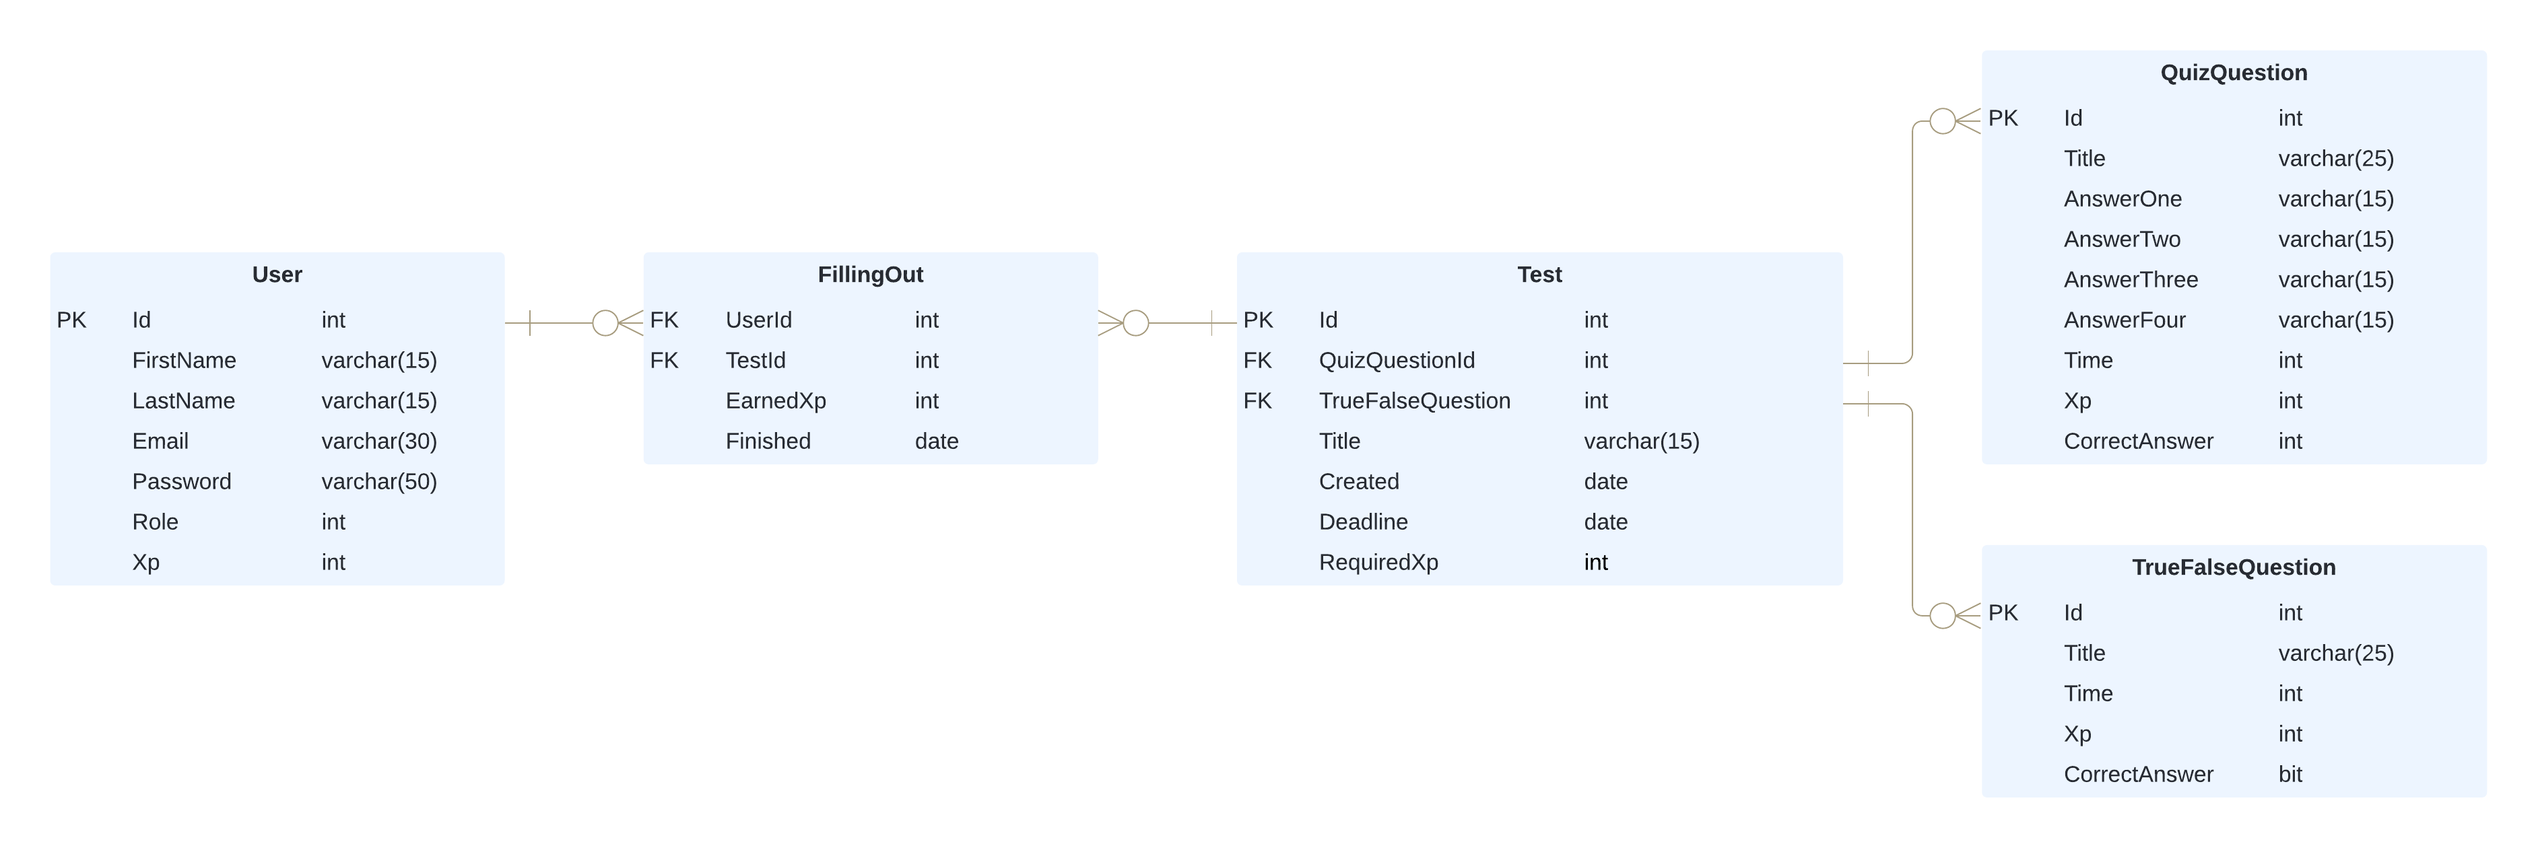
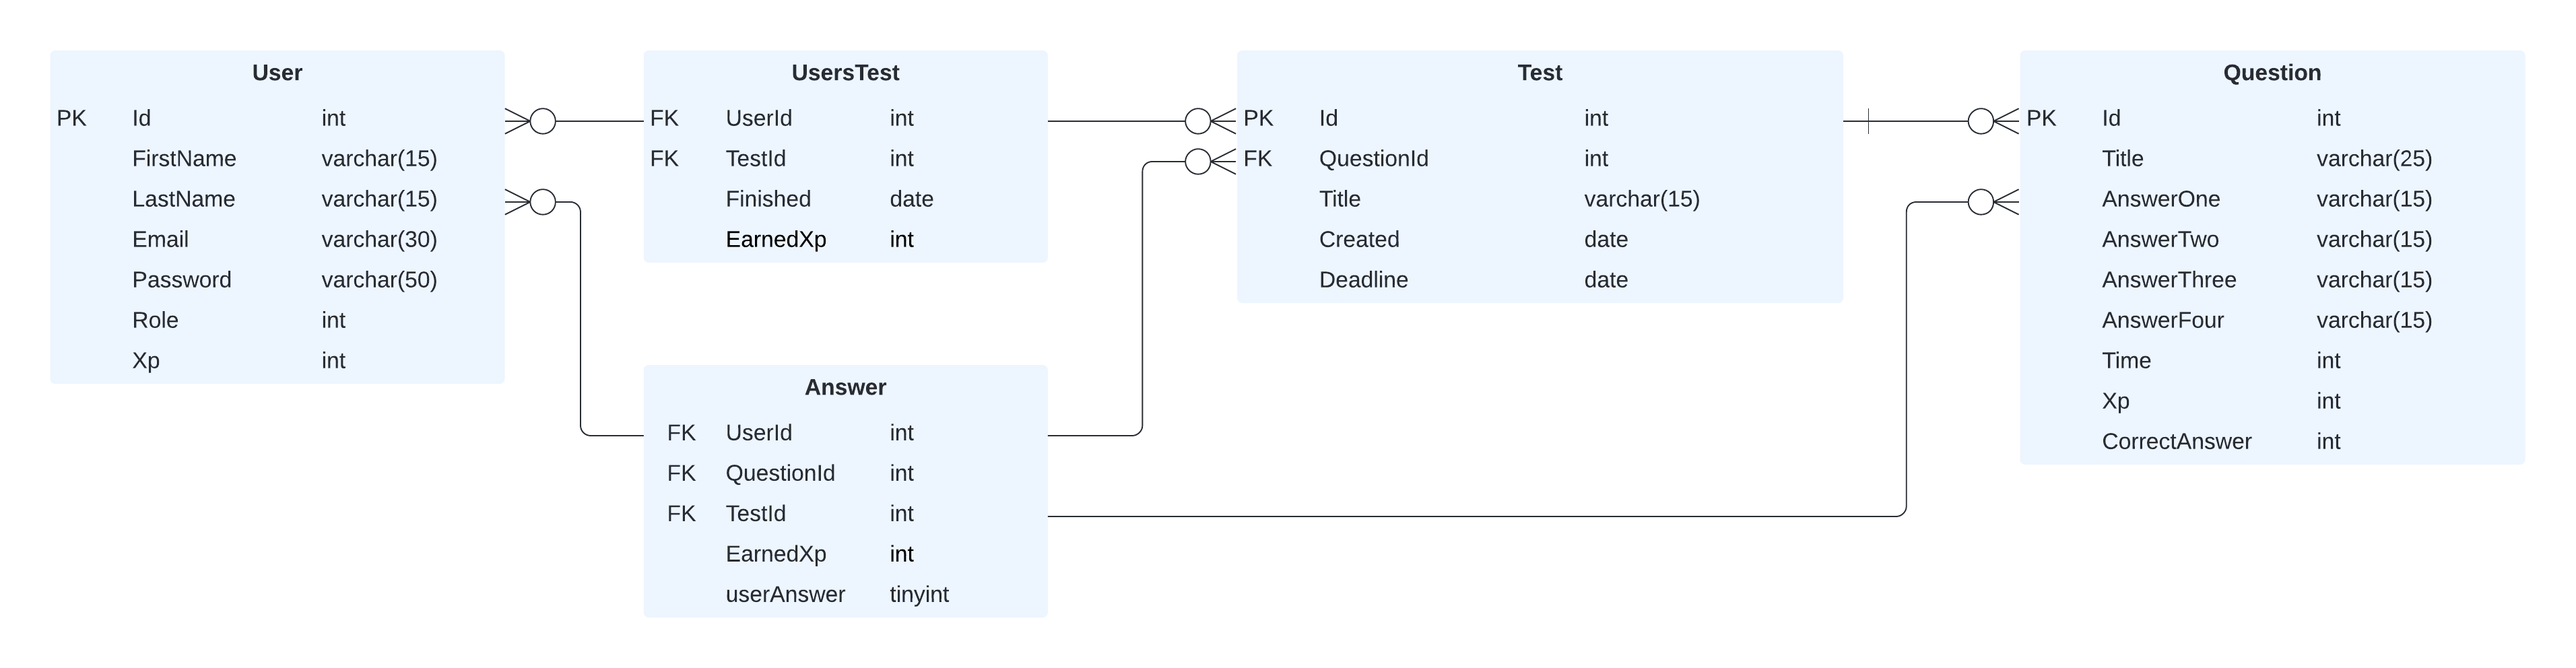
Fixed ER model, added caption and api description

diff --git a/szakdolgozat/chapters/3_design.tex b/szakdolgozat/chapters/3_design.tex
@@ -153,118 +153,117 @@ Ehhez egy ingyenes Bootstrap témát választottam ami szerintem menne a webolda
 
 \Section{Az oldal felépítése}
 
-A funkciók elrendezésének és felépítésének bemutatására képernyőterv vázlatot magyarul drótváznak, angolul wireframe vagy mockup-nak is nevezzük.
+A funkciók elrendezésének és felépítésének bemutatására képernyőterv vázlatot (magyarul drótváznak, angolul wireframe vagy mockup-nak is nevezzük) készítettem a MockFlow \cite{mockflow} nevű oldalon.
 Először azt az oldalt mutatom be amivel mindenki először találkozik az oldal megnyitásakor, ez pedig a bejelentkezési és regisztrációs felület.
 
-\begin{figure}[h!]
+\subsection{Bejelentkezés és regisztráció}
+
+\begin{figure}[H]
     \centering
     \includegraphics[width=\linewidth]{images/login_wireframe.png}
+    \caption{Bejelentkezés}
+    \label{fig:login_wireframe}
 \end{figure}
 
-\begin{figure}[h!]
+\begin{figure}[H]
     \centering
     \includegraphics[width=\linewidth]{images/signin_wireframe.png}
+    \caption{Regisztráció}
+    \label{fig:signin_wireframe}
 \end{figure}
 
-Bejelentkezni email cím és jelszóval lehet. Regisztrációkor pedig ki kell választani hogy tanár vagy diákként szeretnénk regisztrálni.
-Ezután ha sikeresen beléptünk vagy regisztráltunk akkor hozzáférhetünk az oldalhoz ami így fog kinézni:
+Bejelentkezni \ref{fig:login_wireframe} email cím és jelszóval lehet. Regisztrációkor \ref{fig:signin_wireframe} pedig ki kell választani hogy tanár vagy diákként szeretnénk regisztrálni majd meg kell adni az alapvető adatokat.
+Ezután ha sikeresen beléptünk vagy regisztráltunk akkor hozzáférhetünk az oldalhoz.
 
-\newpage
+\subsection{Főoldal}
 
-\begin{figure}[h!]
+\begin{figure}[H]
     \centering
     \includegraphics[width=\linewidth]{images/main_login_wireframe.png}
+    \caption{Főoldal}
+    \label{fig:main_page}
 \end{figure}
 
-Itt láthatjuk a felhasználónevünket, hogy mennyi xp-vel rendelkezünk, hanyas szintűek vagyunk, és hogy hány darab kitöltött és kitöltetlen tesztünk van még.
+Itt láthatjuk \ref{fig:main_page} a felhasználónevünket, hogy mennyi xp-vel rendelkezünk, hanyas szintűek vagyunk, és hogy hány darab kitöltött és kitöltetlen tesztünk van még.
 
+\subsection{Teszt készítés}
 
-\begin{figure}[h!]
+\begin{figure}[H]
     \centering
     \includegraphics[width=\linewidth]{images/make_test_wireframe.png}
+    \caption{Kvíz teszt készítés}
+    \label{fig:new_quiz_question}
 \end{figure}
 
-Ezen a képen a tesztkészítési felület látható amelyhez majd csak a tanárok férhetnek hozzá. Egy tesztnél meghatározható hogy mi legyen a kérdés, mennyi idő legyen rá, mennyi jutalmat lehessen érte kapni, vagyis xp-t és hogy mik legyenek a válaszok és azok közül melyik a jó.
+Ezen a képen \ref{fig:new_quiz_question} a tesztkészítési felület látható amelyhez majd csak a tanárok férhetnek hozzá. Egy tesztnél meghatározható hogy mi legyen a kérdés, mennyi idő legyen rá, mennyi jutalmat lehessen érte kapni, vagyis xp-t és hogy mik legyenek a válaszok és azok közül melyik a jó.
 
-\newpage
 
-\begin{figure}[h!]
+\begin{figure}[H]
     \centering
     \includegraphics[width=\linewidth]{images/make_test2_wireframe.png}
+    \caption{Új kérdés hozzáadása}
+    \label{fig:new_question}
 \end{figure}
 
-Ezután ha elkészítettünk egy kérdést az "Új kérdés" gomb megnyomásával lehet majd új kérdést hozzáadni, itt választhatunk hogy igaz/hamis vagy kvíz típusú kérdést szeretnénk feltenni.
+Ezután ha elkészítettünk egy kérdést az "Új kérdés" gomb megnyomásával lehet majd új kérdést hozzáadni, itt választhatunk hogy igaz/hamis vagy kvíz típusú kérdést szeretnénk feltenni \ref{fig:new_question}.
 
-\begin{figure}[h!]
+\begin{figure}[H]
     \centering
     \includegraphics[width=\linewidth]{images/make_test3_wireframe.png}
+    \caption{Igaz/hamis teszt készítése}
+    \label{fig:test_true_false}
 \end{figure}
 
-Az igaz/hamis típusú kérdésnél csak annyi változik hogy nem lehet válasz lehetőséget írni csak azt hogy az állítás igaz vagy hamis.
+Az igaz/hamis típusú kérdésnél csak annyi változik hogy nem lehet válasz lehetőséget írni csak azt hogy az állítás igaz vagy hamis \ref{fig:test_true_false}.
 
-\begin{figure}[h!]
+\begin{figure}[H]
     \centering
     \includegraphics[width=\linewidth]{images/make_test4_wireframe.png}
+    \caption{Adatok megadása és teszt elmentése}
+    \label{fig:save_test}
 \end{figure}
 
-\newpage
+Az utolsó lépés pedig az hogy adunk címet a tesztnek, ilyen névvel fog megjelenni majd a diákoknak. Ezután hozzáadunk tetszőleges számú diákot akiktől szeretnénk hogy töltsék ki majd, egy kitöltési határidőt, és elkészült a tesztünk \ref{fig:save_test}.
 
-Az utolsó lépés pedig az hogy adunk címet a tesztnek, ilyen névvel fog megjelenni majd a diákoknak. Ezután hozzáadunk tetszőleges számú diákot akiktől szeretnénk hogy töltsék ki majd, egy kitöltési határidőt, és elkészült a tesztünk.
-
-\Section{Adatmodell}
-
-Az adatokat egyed-kapcsolat diagrammon ábrázoltam így a teljes kép könnyebben áttekinthető ezen rendszervázlat alapján.
-
-\begin{figure}[h!]
+\subsection{Saját tesztek}
+\begin{figure}[H]
     \centering
-    \includegraphics[width=\linewidth]{images/TestME_ER.png}
+    \includegraphics[width=\linewidth]{images/my_tests_wireframe.png}
+    \caption{Felhasználóhoz rendelt tesztek}
+    \label{fig:my_tests}
 \end{figure}
 
-A diagramm 5 táblából áll, melyek az alábbiak:
-\begin{itemize}
-    \item {User}
-          \begin{addmargin}[\parindent]{0pt}
-              Ez a tábla egy felhasználót reprezentál akinek az alap létfontosságú adatait bekérjük regisztrációkor, ilyen például a név, email cím, jelszó. Majd ezen felül még meg kell határoznia milyen szerepkörben szeretné használni az oldalt és miután töltött ki tesztet növekedni fog az xp-je mennyisége így van egy Xp adattag is.
-          \end{addmargin}
+Ezen a képen \ref{fig:my_tests} a diákhoz rendelt teszteket látjuk. Itt azok az adatok láthatóak amiket tesztkészítéskor adott meg a tanár. Tehát a kitöltési határidő, mi a teszt címe, mennyi idő van rá, hány kérdés van és hogy mennyi pontot lehet szerezni. Ezenkívül láthatjuk még hogy mikor lett kiírva és egy kezdés gombot amivel kitölthetjük.
 
-    \item {Test}
-          \begin{addmargin}[\parindent]{0pt}
-              A Test tábla egy tanár által készített tesztet reprezentál. Egy teszt kétféle típusú lehet az egyik a kvíz a másik az igaz/hamis, így ezen kettő idegen kulcsa lesz benne. Ezenkívül a teszt címe, hogy mikor készült és hogy mi a kitöltési határidő.
-          \end{addmargin}
+\subsection{Teszt kitöltése}
 
-    \item {FillingOut}
-          \begin{addmargin}[\parindent]{0pt}
-              Ez egy kapcsolótáblát képez a Test és a User tábla között. A kapcsolótábla azonosítója a két idegen kulcsból képzett összetett kulcs lesz. Tehát ebbe benne lesz az előbb említett két tábla idegen kulcsa, a konkrét teszt töltése után kapott Xp és az hogy mikor lett teljesítve a teszt.
-          \end{addmargin}
+\begin{figure}[H]
+    \centering
+    \includegraphics[width=\linewidth]{images/test1_wireframe.png}
+    \caption{Feltett kérdés}
+    \label{fig:test_question}
+\end{figure}
 
-    \item {QuizQuestion}
-          \begin{addmargin}[\parindent]{0pt}
-              A QuizQuestion egy kvíz kérdés adatait tárolja amibe beletartozik a kérdés, a négy válasz az idő és hogy melyik a helyes válasz.
-          \end{addmargin}
+Itt \ref{fig:test_question} egy kérdést látható teszt indítás után. Minden kérdésnél egy stopper órában láthatjuk hány másodpercünk van még válaszolni.
 
-    \item {TrueFalseQuestion}
-          \begin{addmargin}[\parindent]{0pt}
-              A TrueFalseQuestion pedig egy igaz/hamis típusú kérdés kérdését, válaszát, idejét, Xp-jét és helyes válaszát tárolja majd.
-          \end{addmargin}
-\end{itemize}
+\begin{figure}[H]
+    \centering
+    \includegraphics[width=\linewidth]{images/test2_wireframe.png}
+    \caption{Válasz a kérdésre}
+    \label{fig:test_answer}
+\end{figure}
 
-\Section{API}
+Válasz adás után pedig láthatjuk \ref{fig:test_answer} hogy ha válaszolunk egy kérdésre akkor melyik volt a jó és hogy válaszunk rossz vagy jó.
 
-Az alábbi endpointokat szeretném használni az adatok lekérésére és tárolására:
-\begin{itemize}
-    \item {Get}
-          \begin{addmargin}[\parindent]{0pt}
-              \url{api/user/id} \\
-              \url{api/tests/id}
-          \end{addmargin}
+\begin{figure}[H]
+    \centering
+    \includegraphics[width=\linewidth]{images/test3_wireframe.png}
+    \caption{Teszt eredmény}
+    \label{fig:test_finished}
+\end{figure}
 
-    \item {Post}
-          \begin{addmargin}[\parindent]{0pt}
-              \url{api/user} \\
-              \url{api/fillingOut/id} \\
-              \url{api/tests/id}
-          \end{addmargin}
-\end{itemize}
+Miután válaszoltunk minden kérdésre láthatjuk mennyi pontot gyűjtöttünk és hogy kik lettek a legjobbak. \ref{fig:test_finished}
+
 
 \Section{Funkciók}
 
@@ -325,3 +324,77 @@ Egy tanár tud teszteket létrehozni és azokat hozzárendelni diákokhoz.
 
 \subsubsection{Diák szerepkör}
 Annyiban tér el a tanárétól hogy nem tud tesztet létrehozni csak a hozzárendelteket megtekinteni és kitölteni.
+
+
+\Section{Adatmodell}
+
+Az adatokat egyed-kapcsolat diagrammon ábrázoltam így a teljes kép könnyebben áttekinthető ezen rendszervázlat alapján.
+
+\begin{figure}[H]
+    \centering
+    \includegraphics[width=\linewidth]{images/TestME_ER.png}
+\end{figure}
+
+A diagramm 5 táblából áll, melyek az alábbiak:
+\begin{itemize}
+    \item {User}
+          \begin{addmargin}[\parindent]{0pt}
+              Ez a tábla egy felhasználót reprezentál akinek az alap létfontosságú adatait bekérjük regisztrációkor, ilyen például a név, email cím, jelszó. Majd ezen felül még meg kell határoznia milyen szerepkörben szeretné használni az oldalt és miután töltött ki tesztet növekedni fog az xp-je mennyisége így van egy Xp adattag is.
+          \end{addmargin}
+
+    \item {Test}
+          \begin{addmargin}[\parindent]{0pt}
+              A Test tábla egy tanár által készített tesztet reprezentál. Egy teszten belül két típusú kérdés lehet az egyik a kvíz a másik az igaz/hamis. Ezenkívül benne van a teszt címe, hogy mikor készült és hogy mi a kitöltési határidő.
+          \end{addmargin}
+
+    \item {Question}
+          \begin{addmargin}[\parindent]{0pt}
+              A Question egy kérdés adatait tárolja amibe beletartozik a kérdés, a négy válasz, az idő, hogy mennyi pontot ér és hogy melyik a helyes válasz.
+          \end{addmargin}
+
+    \item {Answer}
+          \begin{addmargin}[\parindent]{0pt}
+              Ez a tábla egy kérdés válaszát tárolja el. Ebben a táblában benne van az előbb említett táblák azonosítója, emellett hogy mennyi pontot kapott a felhasználó a kérdésre.
+          \end{addmargin}
+
+    \item {UsersTest}
+          \begin{addmargin}[\parindent]{0pt}
+              Ez egy kapcsolótáblát képez a Test és a User tábla között. A kapcsolótábla azonosítója a két idegen kulcsból képzett összetett kulcs lesz. Tehát ebbe benne lesz a Test és User tábla idegen kulcsa. Erre azért van szükség hogy le tudjuk kérni hogy egy felhasználóhoz melyik tesztek tartoznak.
+          \end{addmargin}
+
+\end{itemize}
+
+\Section{API}
+
+Az alábbi endpointokat szeretném használni az adatok lekérésére és tárolására:
+\subsection{Felhasználók}
+\begin{itemize}[label={$\bullet$}, topsep=0pt, itemsep=0pt, leftmargin=15pt]
+    \item[] {\url{api/users:}}
+          \begin{addmargin}[\parindent]{0pt}
+              Ezen az endpoint-on tudunk lekérni egy felhasználót bejelentkezéskor egy \url{GET} hívással és regisztrációkor ide tudjuk elküldeni az adatait \url{POST}-tal.
+          \end{addmargin}
+\end{itemize}
+
+\subsection{Tesztek}
+\begin{itemize}[label={$\bullet$}, topsep=0pt, itemsep=0pt, leftmargin=15pt]
+    \item[] {\url{api/tests:}}
+          \begin{addmargin}[\parindent]{0pt}
+              Ha a diák ki akarja tölteni a tesztet innen tudjuk lekérni a kérdésekkel együtt. Illetve egy tanár ide küldi el az újat.
+          \end{addmargin}
+\end{itemize}
+
+\subsection{Felhasználó tesztjei}
+\begin{itemize}[label={$\bullet$}, topsep=0pt, itemsep=0pt, leftmargin=15pt]
+    \item[] {\url{api/usersTest:}}
+          \begin{addmargin}[\parindent]{0pt}
+              Ha a diák meg akarja nézni a saját tesztjeit hogy miket kell kitöltenie és miket töltött eddig ki akkor azt innen tudjuk lekérdezni. Ezáltal kiírathatjuk őket, azokkal az információkkal hogy befejezték-e már és hogy mennyi pontot kaptak általa.
+          \end{addmargin}
+\end{itemize}
+
+\subsection{Válaszok}
+\begin{itemize}[label={$\bullet$}, topsep=0pt, itemsep=0pt, leftmargin=15pt]
+    \item[] {\url{api/answers:}}
+          \begin{addmargin}[\parindent]{0pt}
+              Itt egy teszt kérdés válasza tárolódik amely kötődik a felhasználóhoz, teszthez és magához a kérdéshez.
+          \end{addmargin}
+\end{itemize}

diff --git a/szakdolgozat/dolgozat.tex b/szakdolgozat/dolgozat.tex
@@ -9,6 +9,7 @@
 \usepackage{hyperref}
 \usepackage{scrextend}
 \usepackage{enumitem}
+\usepackage{float}
 
 \usepackage{subcaption}
 \setlist{parsep=0pt,listparindent=\parindent}
